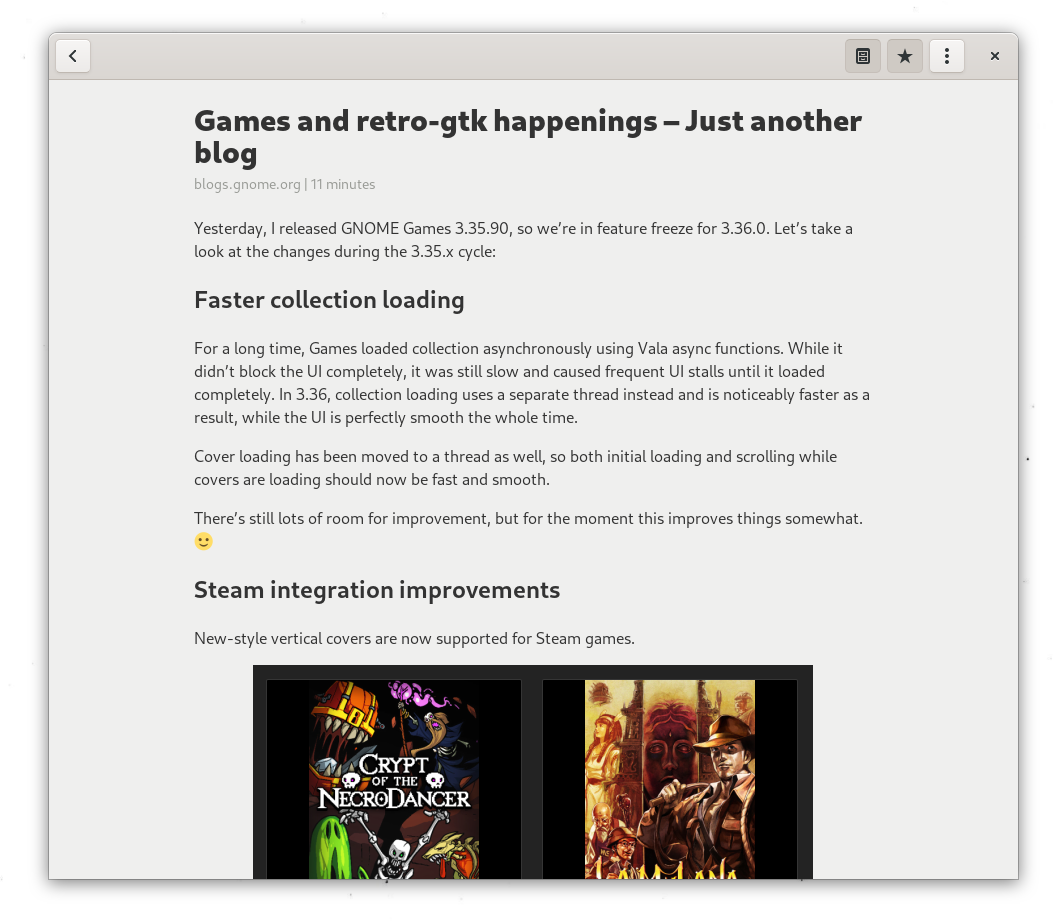
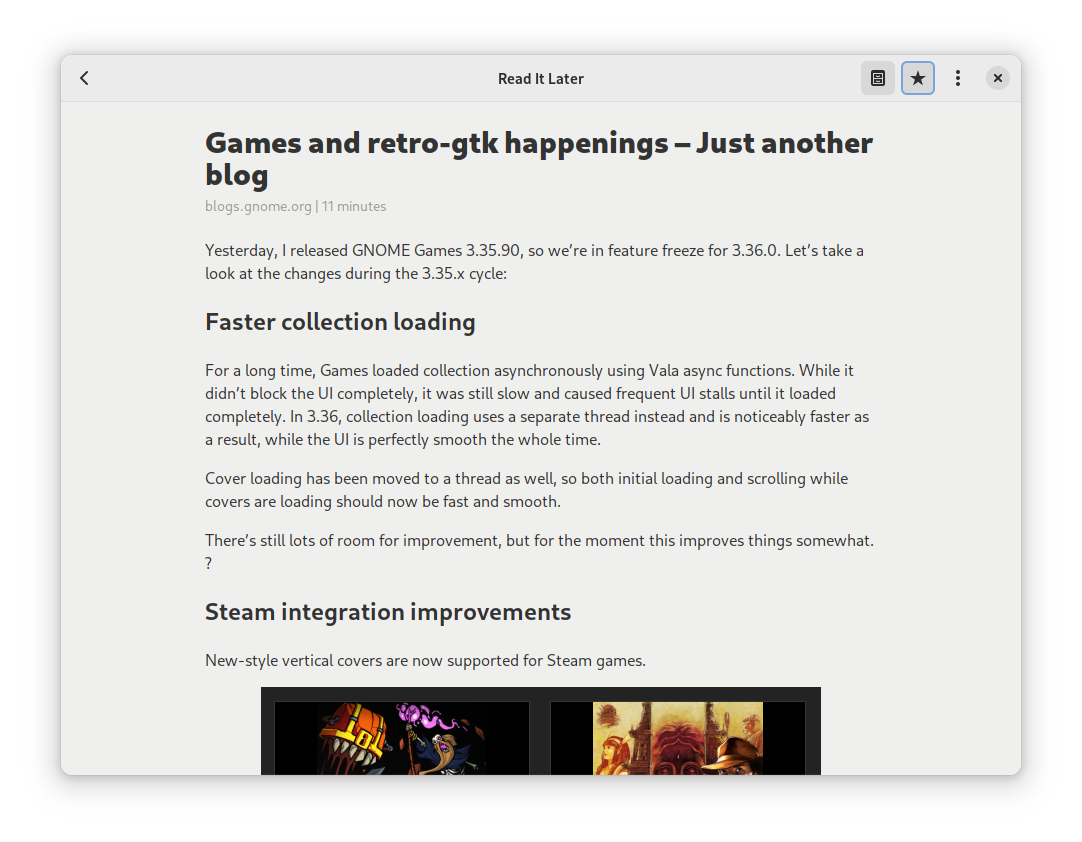
Update screenshots

Changed region(s): [[0.0311, 0.0309, 0.9953, 0.9881], [0.1866, 0.3705, 0.8087, 0.5249], [0.1866, 0.5558, 0.8087, 0.6485]]

diff --git a/docs/screenshots.md b/docs/screenshots.md
@@ -1,0 +1,22 @@
+# Recreating screenshots
+This document contains advice on recreating the screenshots in this repo.
+
+See https://blogs.gnome.org/tbernard/2021/09/07/ready-for-software-41/#screenshots for general tips.
+
+## Screenshot 1
+Add these articles to the unread article list. Mark other articles as read.
+
+- https://samthursfield.wordpress.com/2020/02/01/sculpting-tracker-3-0/
+- https://hackernoon.com/10-great-articles-on-python-development-6f54dd38437f
+- https://blogs.gnome.org/kalev/2020/02/02/upgrading-silverblue-from-fedora-30-to-31-using-gnome-software/
+- https://blogs.gnome.org/tbernard/2019/12/30/designing-an-icon-for-your-app/
+
+## Screenshot 2
+View the following article. Mark it as read and favorite.
+
+- https://blogs.gnome.org/alexm/2020/02/04/games-and-retro-gtk-happenings/
+
+## Screenshot 3
+View the following article. Switch to dark mode and make the window narrow.
+
+- https://realpython.com/flask-blueprint/
